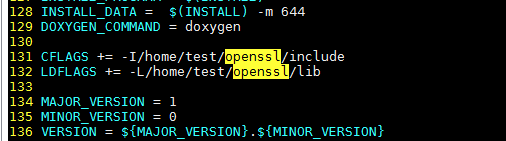
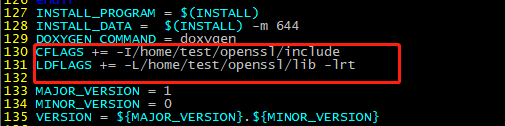
修改readme描述

Changed region(s): [[0.0, 0.0, 0.802, 1.0]]

diff --git a/README.md b/README.md
@@ -59,33 +59,14 @@ SDK需运行在Linux操作系统上。
 
    ./config shared --prefix=/home/test/openssl --openssldir=/home/test/openssl/ssl  
    
-   其中“prefix”是安装目录，“openssldir”是配置文件目录，“shared”作用是生成动态链接库（即.so库）。
+   其中“prefix”是自定义安装目录，“openssldir”是自定义配置文件目录，“shared”作用是生成动态链接库（即.so库）。
 
    - 如果编译有问题配置命令加上no-asm（表示不使用汇编代码）
      
      ./config  no-asm shared --prefix=/home/test/openssl --openssldir=/home/test/openssl/ssl
      ![](./doc/no_asm.png)
 
-   - 如果遇到64位的编译链，需要添加sysroot参数，用如下命令配置。
-
-     ./config no-asm shared --prefix=/home/test/openssl --openssldir=/home/test/openssl/ssl --sysroot="{头文件所在路径}"
-     ![](./doc/sysroot.png)
-     
-     一般来说，头文件所在路径与“XXX-gcc/g++/ar/nm”等（XXX是交叉编译器名字的前缀）的所在目录不一样，在另外一个大目录下（如下图所示）。   
-     ![](./doc/header_file.png)
-
-3. （可选，使用系统的gcc可跳过该步骤）如果厂家使用自有的交叉编译工具链，需将交叉编译工具链解压。
-   gcc/g++/ar/ranlib/nm等文件的名字根据编译链的不同，文件名开头会有所不同，但文件名结尾是不变的，如arm架构比较常见的编译器是arm-linux-gc。  
-   ![](./doc/gcc.png)
-
-4. （可选，使用系统的gcc可跳过该步骤）修改Makefile文件。
-  - 配置完成后会在openssl源码目录下生成一个Makefile文件，打开查看内容，会看到CROSS_COMPILE的值是空的。  
-    ![](./doc/makefile1.png)
-    
-  - 找到交叉编译工具xxx-gcc/g++/ar/nm等文件所在路径（其中“XXX-”是交叉编译工具文件名前缀），将CROSS_COMPILE的值修改为XXXgcc所在绝对路径+XXX--gcc的文件名前缀（参考下图）。如果生成的Makefile中没有CROSS_COMPILE参数，说明openssl版本比较旧，建议更新。  
-    ![](./doc/makefile2.png)
-
-5. 编译出库。
+3. 编译出库。
    在openssl源码目录下，运行make depend命令添加依赖：
 
    make depend  
@@ -100,7 +81,7 @@ SDK需运行在Linux操作系统上。
 
    在配置的openssl安装目录下home/test/openssl找到lib目录，有生成的库文件：
 
-   libcrypto.so.1.1、libssl.so.1.1和软链接libcrypto.so、libssl.so
+   libcrypto.so.1.1、libssl.so.1.1和软链接libcrypto.so、libssl.so，请将这些文件拷贝到SDK的lib文件夹下。
 
    ![](./doc/openssl.png)
 
@@ -122,14 +103,11 @@ SDK需运行在Linux操作系统上。
 	- 在129行之后添加下面两行（自定义的openssl的头文件和库文件）
 	  
 	  CFLAGS += -I/home/test/openssl/include
-	  LDFLAGS += -L/home/test/openssl/lib
+	  LDFLAGS += -L/home/test/openssl/lib -lrt
 	  ![](./doc/paho_makefile1.png)
 	  
-	- 把195行、197行、199行、201行都改成对应的地址
+	- 把图中195行、197行、199行、201行都改成对应的地址
 	  ![](./doc/paho_makefile2.png)
-	
-	- 如果开发者用自有的工具链（64位需确认头文件的位置，可参考[3.2 编译openssl库](#3.2)），主要修改的地方为：编译器路径、编译选项和openssl目录，如下图所示：
-	  ![](./doc/paho64.png)
 	
 4. 编译
 	- 执行清空命令：
@@ -217,6 +195,7 @@ SDK需运行在Linux操作系统上。
 	      ![](./doc/4_8.png)
 	  
 <h1 id="5">5.使用步骤</h1>  
+
 以下是部分接口的使用指导，详细的功能请参考主目录下的**API文档**。  
 
 - **设置日志回调函数**
